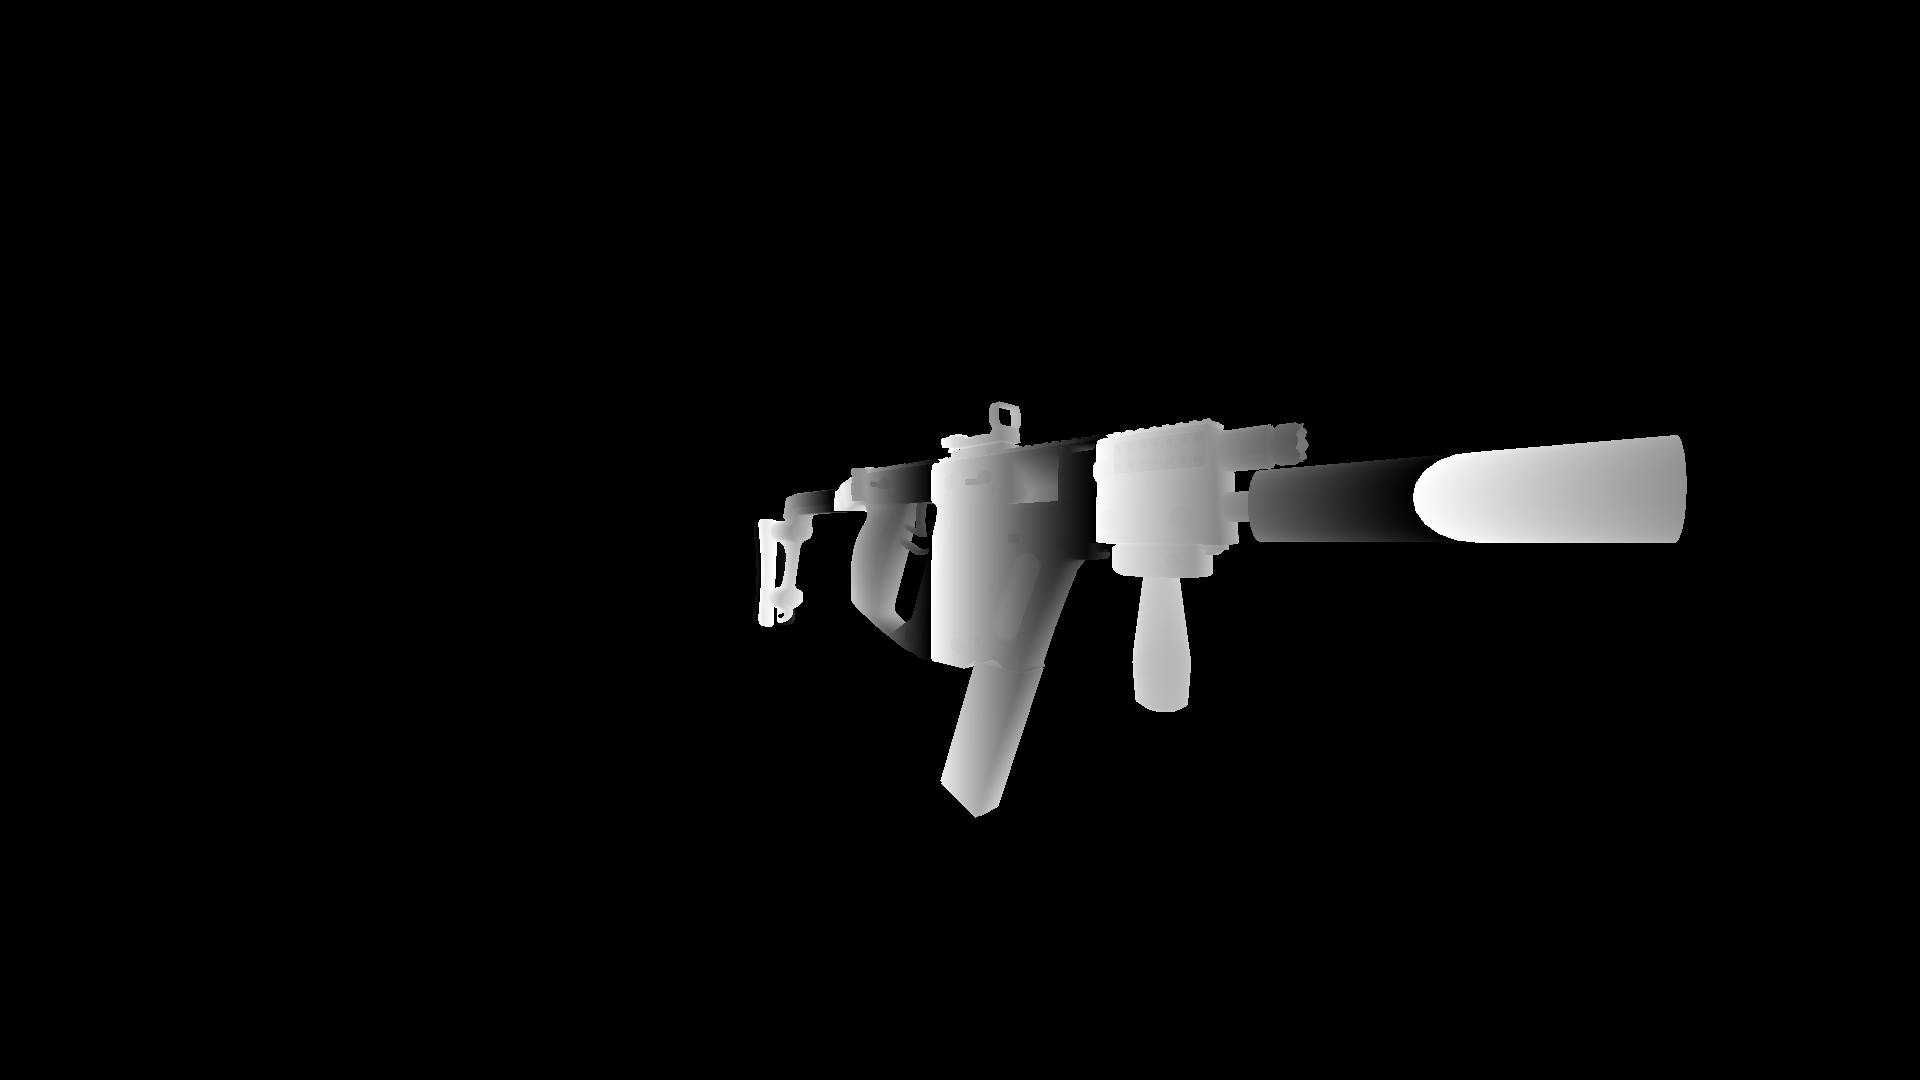
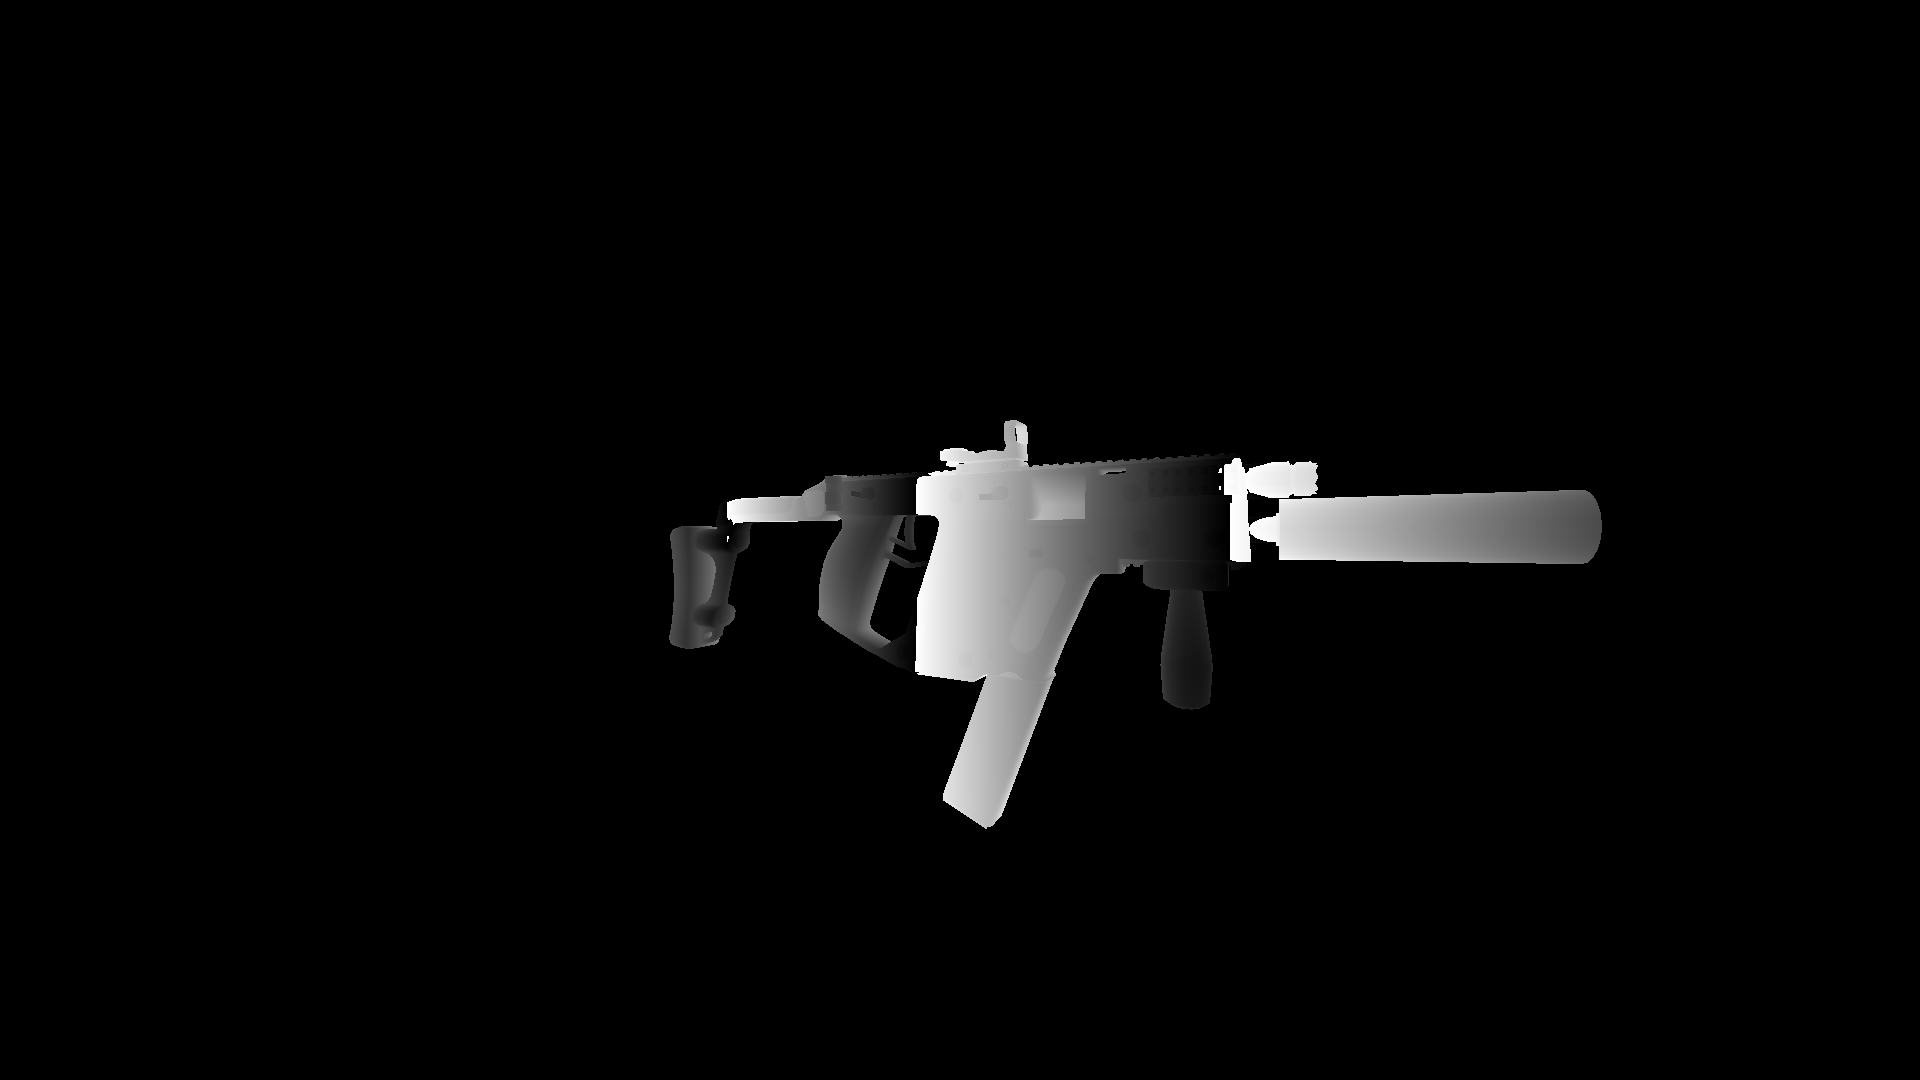
Updated demo

Changed region(s): [[0.3438, 0.3667, 0.9062, 0.7639]]

diff --git a/main.c b/main.c
@@ -69,12 +69,12 @@ int main() {
     unsigned char* frameBuffer = malloc(size * sizeof(unsigned char));
 
     // Define transformation matrix
-    float angle = .8f;
+    float angle = .5f;
     Matrix4x4 modelViewProjection = {
         { cosf(angle), 0, sinf(angle), 0 },
         { 0, 1, 0, 0 },
         { -sinf(angle), 0, cosf(angle), 0 },
-        { 0, -.5f, -4, 1 }
+        { 0, -.6f, -4, 1 }
     };
 
     unsigned char backgroundColor = 0;
